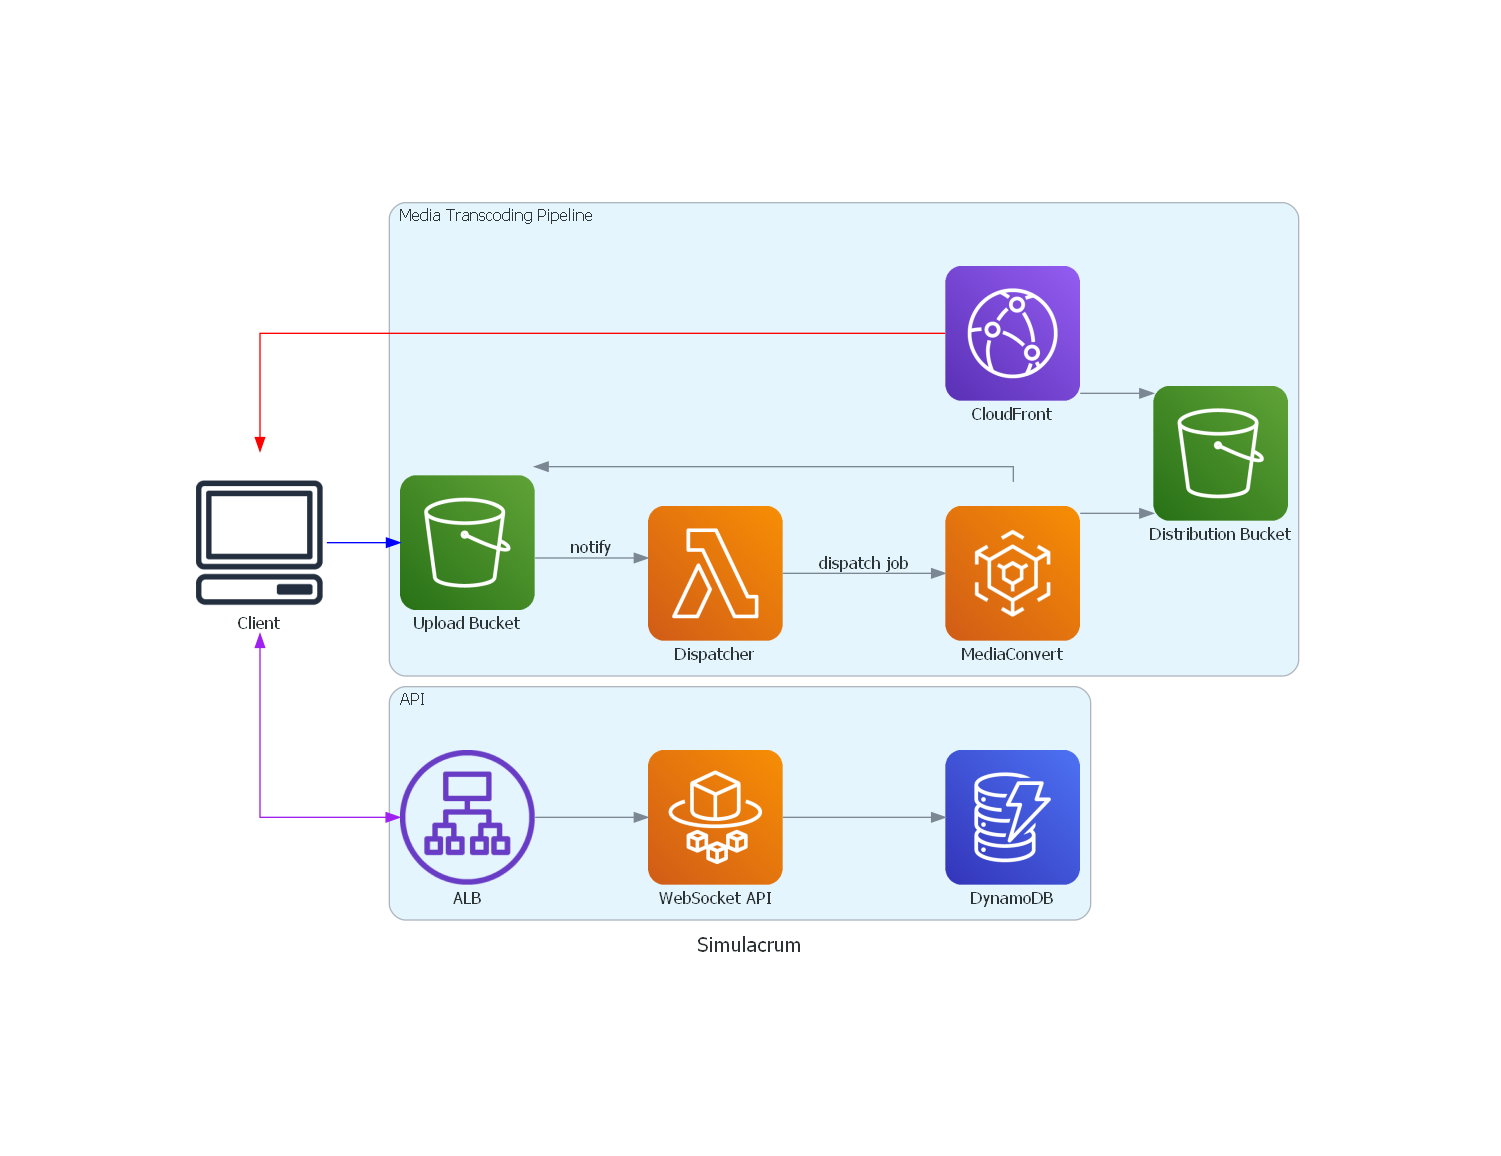
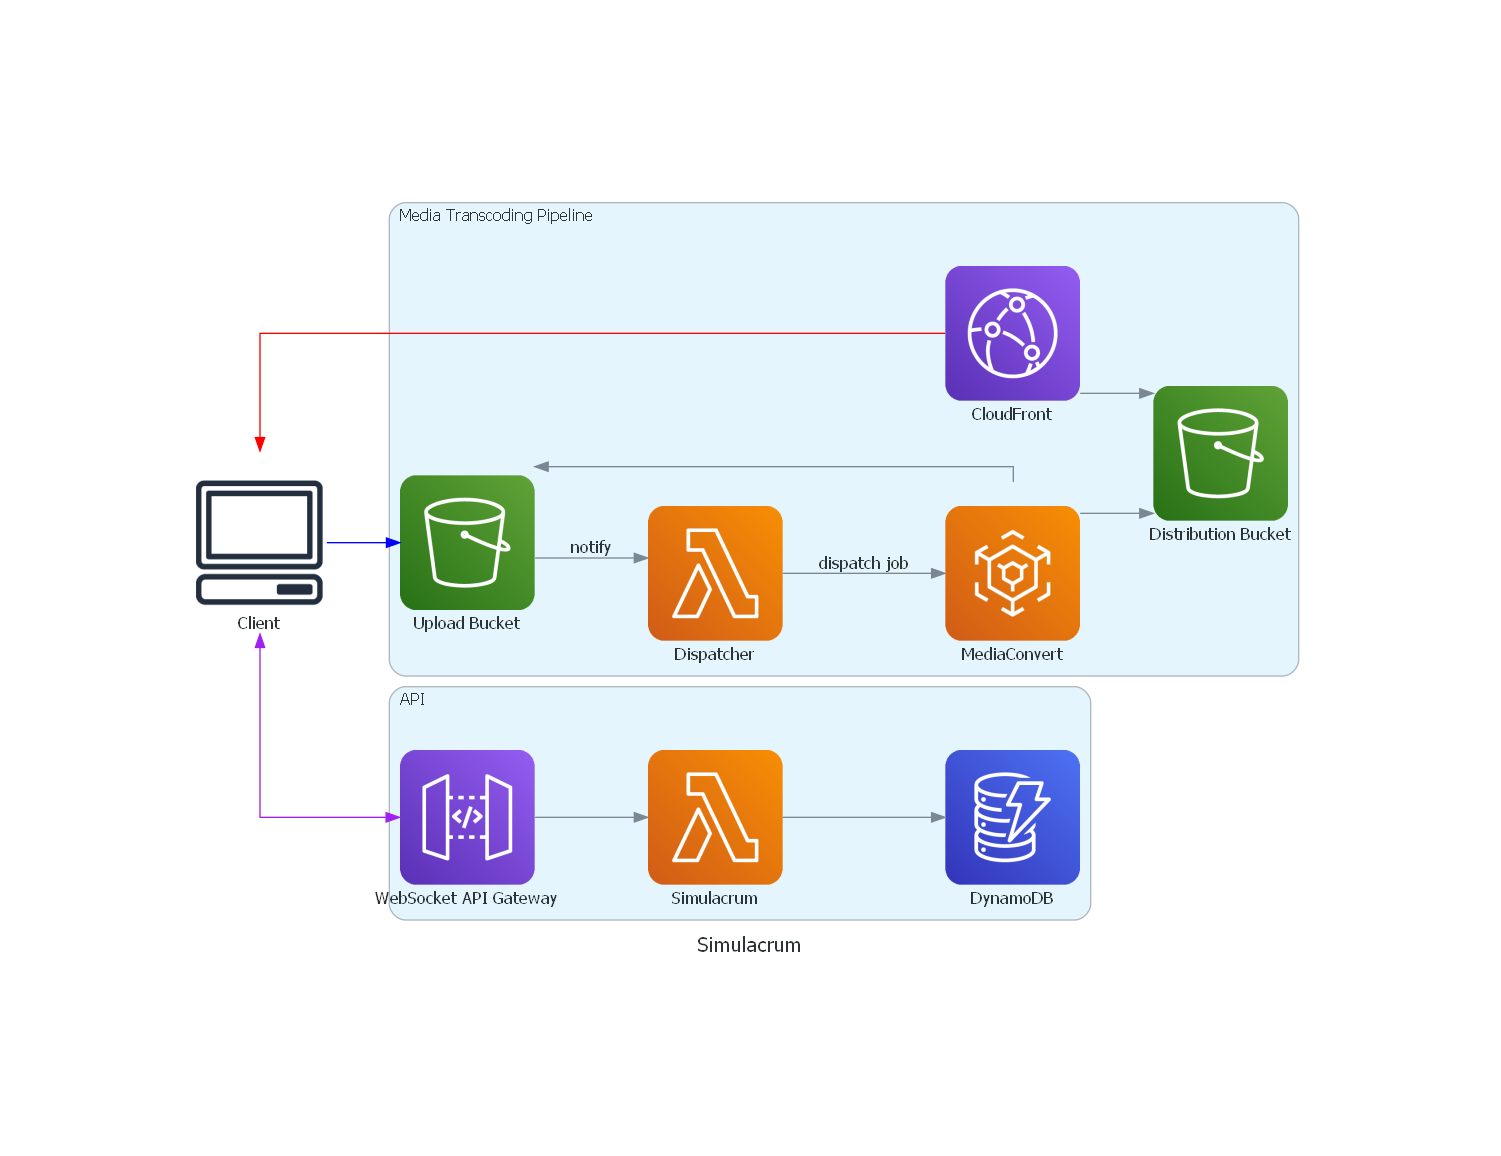
Update architecture diagram

Changed region(s): [[0.2452, 0.6228, 0.3678, 0.7785], [0.429, 0.654, 0.521, 0.7785]]

diff --git a/src/simulacrum-cloud-diagrams/simulacrum/aws.py b/src/simulacrum-cloud-diagrams/simulacrum/aws.py
@@ -1,8 +1,8 @@
 from diagrams import Cluster, Diagram, Edge
-from diagrams.aws.compute import Lambda, Fargate
+from diagrams.aws.compute import Lambda
 from diagrams.aws.database import Dynamodb
 from diagrams.aws.media import ElementalMediaconvert
-from diagrams.aws.network import CloudFront, ALB
+from diagrams.aws.network import CloudFront, APIGateway
 from diagrams.aws.storage import S3
 from diagrams.onprem.client import Client
 
@@ -36,7 +36,7 @@ with Diagram("Simulacrum", filename="simulacrum/aws", show=False):
         (
             client
             >> BidirectionalEdge()
-            << ALB("ALB")
-            >> Fargate("WebSocket API")
+            << APIGateway("WebSocket API Gateway")
+            >> Lambda("Simulacrum")
             >> Dynamodb("DynamoDB")
         )
